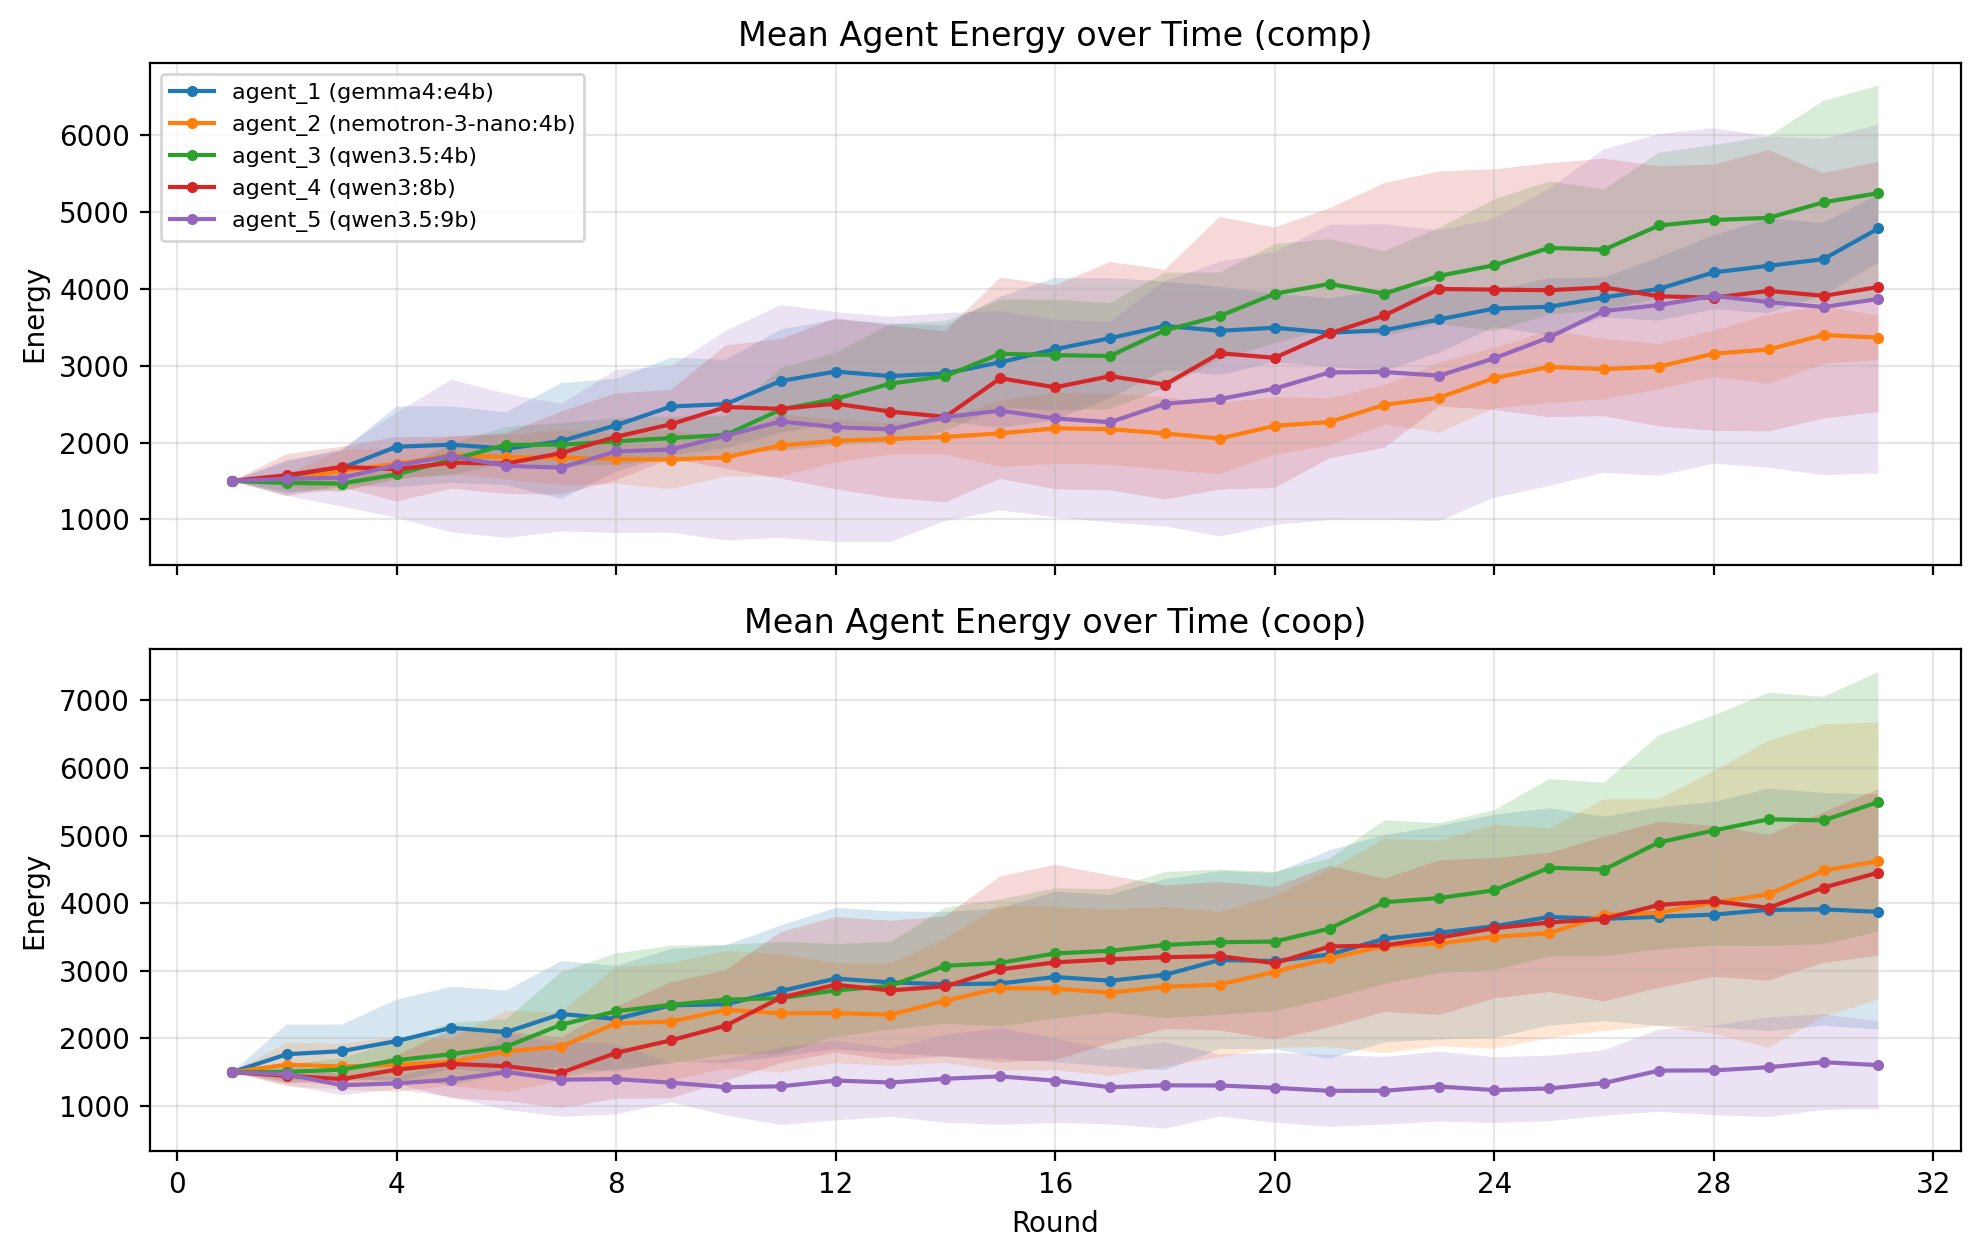
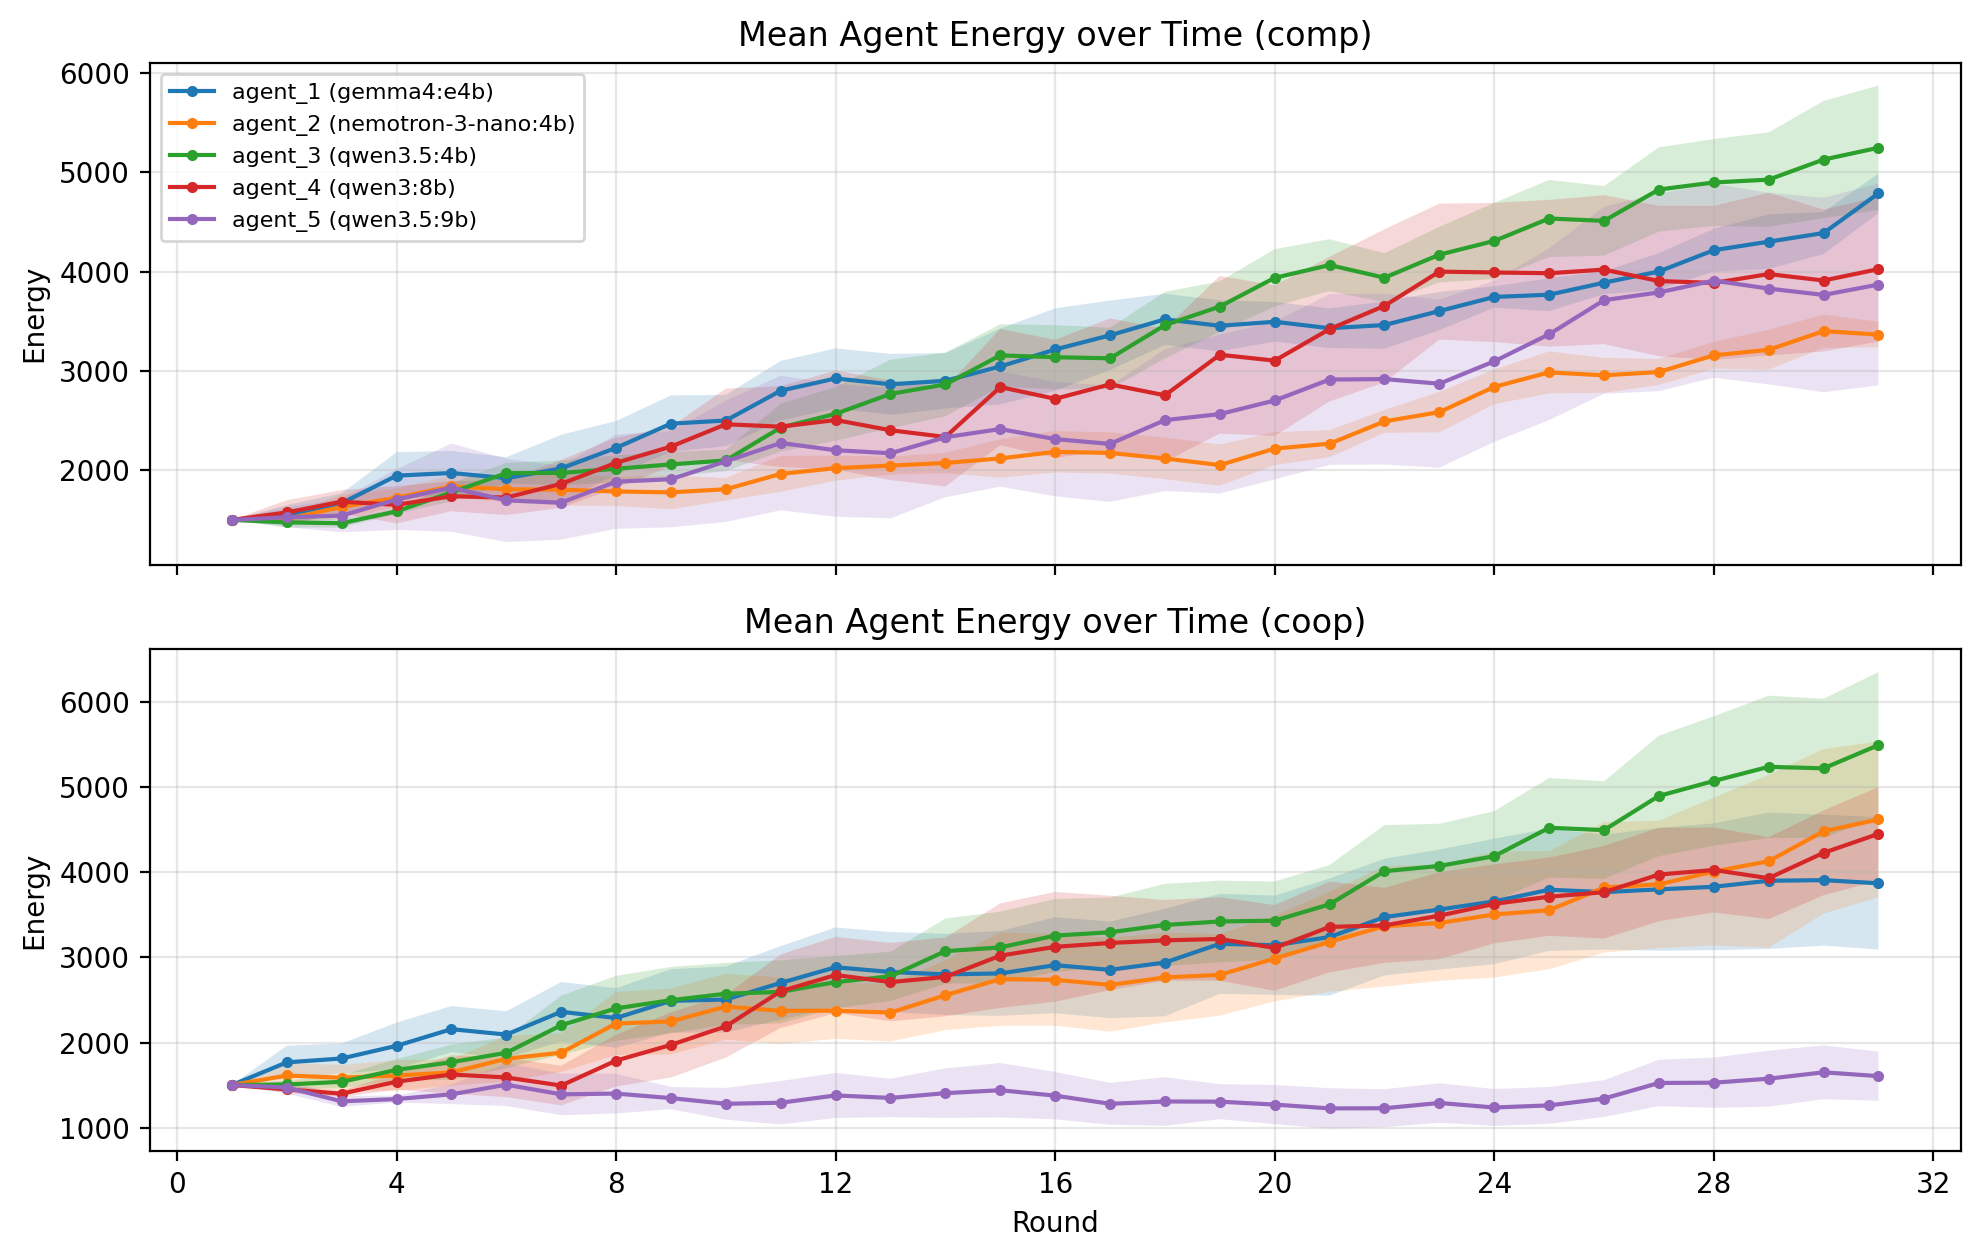
changed from std to sem

diff --git a/plotting/plot_aggregate_metrics.py b/plotting/plot_aggregate_metrics.py
@@ -104,9 +104,11 @@ def plot_energy_over_time_aggregate(folders: list[Path], labels: list[str], out_
             grp = sub[sub["agent_id"] == agent_id].sort_values("round_num")
             x = grp["round_num"].to_numpy(dtype=float)
             y = grp["avg_energy"].to_numpy(dtype=float)
-            sd = grp["std_energy"].to_numpy(dtype=float)
+            n_runs = grp["n_runs"].replace(0, np.nan).to_numpy(dtype=float)
+            sem = grp["std_energy"].to_numpy(dtype=float) / np.sqrt(n_runs)
+            sem = np.nan_to_num(sem, nan=0.0)
             ax.plot(x, y, marker="o", markersize=3, linewidth=1.5, label=agent_labels.get(agent_id, agent_id))
-            ax.fill_between(x, y - sd, y + sd, alpha=0.18)
+            ax.fill_between(x, y - sem, y + sem, alpha=0.18)
 
         ax.set_title(f"Mean Agent Energy over Time ({exp})")
         ax.set_ylabel("Energy")
@@ -275,9 +277,9 @@ def make_plots(aggregate_dirs: Iterable[str | Path], labels: Iterable[str], out_
 
 def main():
     root = Path(__file__).resolve().parents[1] / "results"
-    aggregate_dir1 = root / "comp_no_discussion" / "exponent_0.5" / "aggregate"
-    aggregate_dir2 = root / "coop_no_discussion" / "exponent_0.5" / "aggregate"
-    out = root / "plots" / "coop_vs_comp_no_discussion_0.5"
+    aggregate_dir1 = root / "comp_with_discussion" / "exponent_0.0" / "aggregate"
+    aggregate_dir2 = root / "coop" / "exponent_0.0" / "aggregate"
+    out = root / "plots" / "coop_vs_comp_0.0"
     make_plots([aggregate_dir1, aggregate_dir2], ["comp", "coop"], out, 12)
 
 